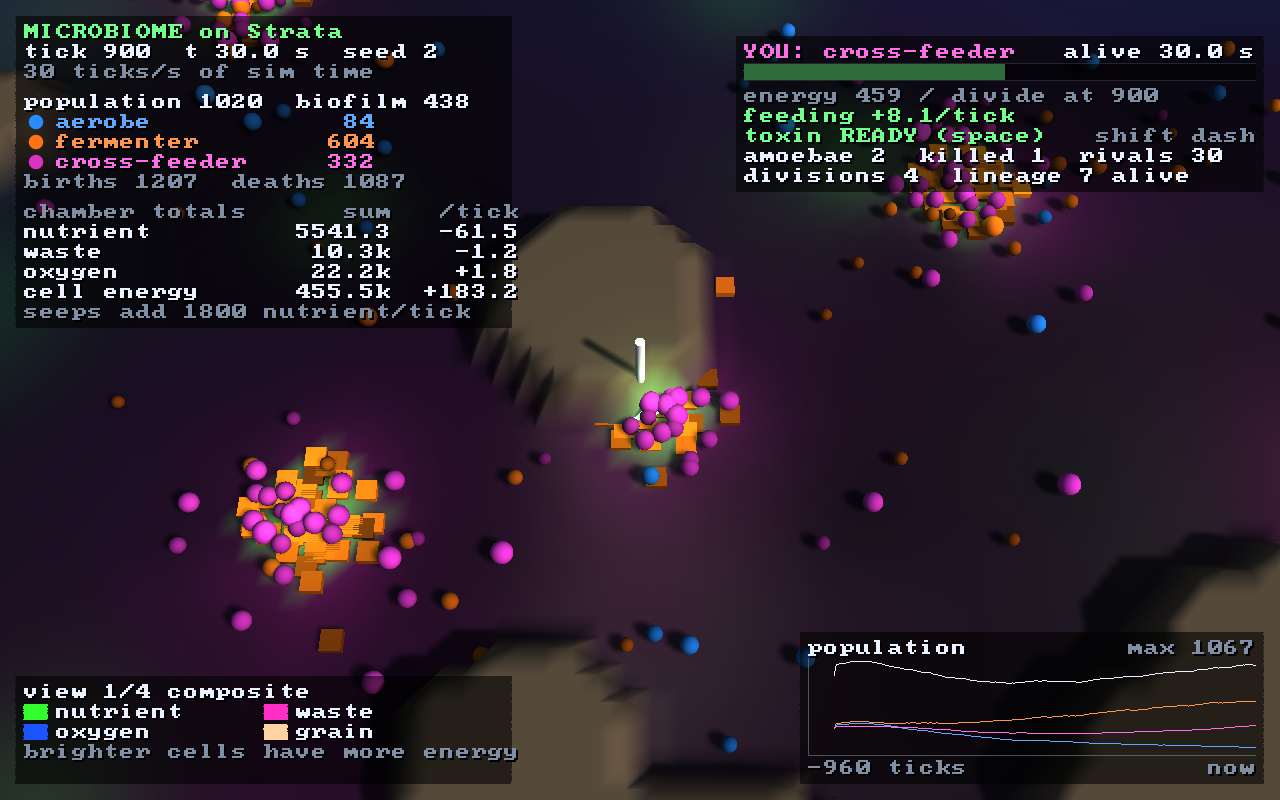
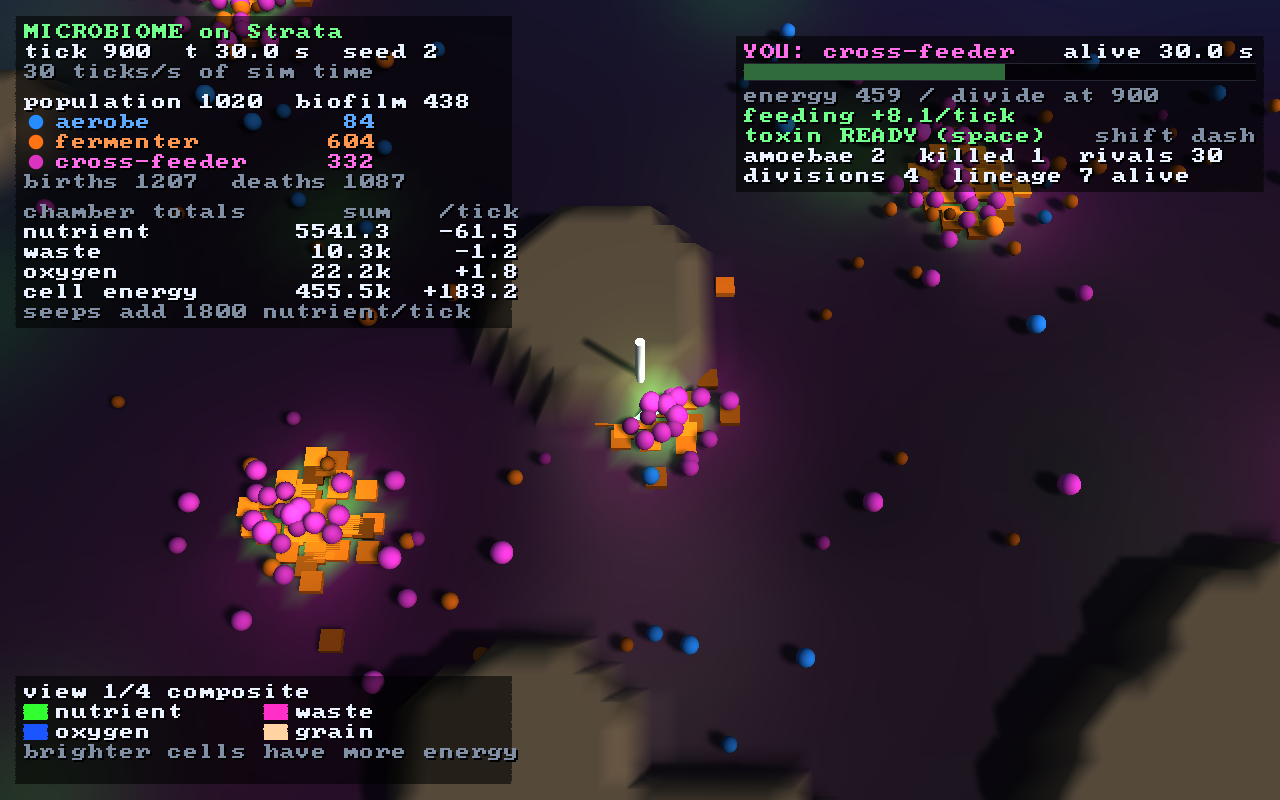
Show survival mode in the README with a GIF and a phone screenshot
The README's survival section gains an animated clip of a fight (seed 2,
ticks 300-540: three toxin bursts stun and kill an amoeba while the cell
divides) and a screenshot of the web page on a phone, next to the
existing still.

Taking the phone screenshot showed the page's Dash and Toxin buttons
covering the HUD's population sparkline, so the sparkline is now hidden
while a cell is embodied (docs/STRATA.md notes it).

drafted by Claude on behalf of Daniel Stephenson

Claude-Session: https://claude.ai/code/session_01LYNeumK8fwcmg2Z2FCVk1q

Changed region(s): [[0.8438, 0.7812, 1.0, 1.0], [0.625, 0.7812, 0.75, 0.8438], [0.625, 0.9375, 0.75, 0.9688]]

diff --git a/strata/src/hud.cpp b/strata/src/hud.cpp
@@ -294,37 +294,40 @@ void Hud::build(const MicroEnvironment& env, const StatsHistory& history, const 
              kDim);
     }
 
-    // ---- bottom right: population sparkline
-    const float spW = std::min(28.0f * s, W * 0.4f);
-    const float spH = s * 6.0f;
-    const float sx0 = W - m - spW - 2 * pad, sy0 = H - m - spH - 2 * lh - 2 * pad;
-    fillRect(sx0, sy0, W - m, H - m, kPanel);
-    const float gx0 = sx0 + pad, gx1 = W - m - pad;
-    const float gy0 = sy0 + pad + lh, gy1 = H - m - pad - lh;
-    const int span = history.capacity() * history.everyTicks();
-    text(gx0, sy0 + pad, "population", kWhite);
-    // The time axis: the window's span on the left, the present on the right.
-    text(gx0, gy1 + (lh - s), "-" + std::to_string(span) + " ticks", kDim);
-    text(gx1 - 3.0f * s, gy1 + (lh - s), "now", kDim);
-    line(gx0, gy1 - 0.5f, gx1, gy1 - 0.5f, kFrame, kFrame);
-    line(gx0 + 0.5f, gy0, gx0 + 0.5f, gy1, kFrame, kFrame);
-    if (samples.size() >= 2) {
-        int peak = 1;
-        for (const auto& smp : samples) peak = std::max(peak, smp.population());
-        const std::string peakLabel = "max " + std::to_string(peak);
-        text(gx1 - static_cast<float>(peakLabel.size()) * s, sy0 + pad, peakLabel, kDim);
-        const float dx = (gx1 - gx0) / static_cast<float>(history.capacity() - 1);
-        // Newest sample at the right edge.
-        const float xStart = gx1 - dx * static_cast<float>(samples.size() - 1);
-        auto yOf = [&](int v) { return gy1 - 1.0f - (gy1 - gy0 - 2.0f) * static_cast<float>(v) / static_cast<float>(peak); };
-        for (int series = -1; series < kSpeciesCount; ++series) {
-            float c[4];
-            if (series < 0) std::copy(kWhite, kWhite + 4, c);
-            else speciesTextColor(static_cast<Species>(series), c);
-            for (size_t i = 1; i < samples.size(); ++i) {
-                const int a = series < 0 ? samples[i - 1].population() : samples[i - 1].alive[series];
-                const int b = series < 0 ? samples[i].population() : samples[i].alive[series];
-                line(xStart + dx * static_cast<float>(i - 1), yOf(a), xStart + dx * static_cast<float>(i), yOf(b), c, c);
+    // ---- bottom right: population sparkline. While a cell is embodied its own
+    // panel matters more, and on the web page the Dash and Toxin buttons sit here.
+    if (!env.player().embodied) {
+        const float spW = std::min(28.0f * s, W * 0.4f);
+        const float spH = s * 6.0f;
+        const float sx0 = W - m - spW - 2 * pad, sy0 = H - m - spH - 2 * lh - 2 * pad;
+        fillRect(sx0, sy0, W - m, H - m, kPanel);
+        const float gx0 = sx0 + pad, gx1 = W - m - pad;
+        const float gy0 = sy0 + pad + lh, gy1 = H - m - pad - lh;
+        const int span = history.capacity() * history.everyTicks();
+        text(gx0, sy0 + pad, "population", kWhite);
+        // The time axis: the window's span on the left, the present on the right.
+        text(gx0, gy1 + (lh - s), "-" + std::to_string(span) + " ticks", kDim);
+        text(gx1 - 3.0f * s, gy1 + (lh - s), "now", kDim);
+        line(gx0, gy1 - 0.5f, gx1, gy1 - 0.5f, kFrame, kFrame);
+        line(gx0 + 0.5f, gy0, gx0 + 0.5f, gy1, kFrame, kFrame);
+        if (samples.size() >= 2) {
+            int peak = 1;
+            for (const auto& smp : samples) peak = std::max(peak, smp.population());
+            const std::string peakLabel = "max " + std::to_string(peak);
+            text(gx1 - static_cast<float>(peakLabel.size()) * s, sy0 + pad, peakLabel, kDim);
+            const float dx = (gx1 - gx0) / static_cast<float>(history.capacity() - 1);
+            // Newest sample at the right edge.
+            const float xStart = gx1 - dx * static_cast<float>(samples.size() - 1);
+            auto yOf = [&](int v) { return gy1 - 1.0f - (gy1 - gy0 - 2.0f) * static_cast<float>(v) / static_cast<float>(peak); };
+            for (int series = -1; series < kSpeciesCount; ++series) {
+                float c[4];
+                if (series < 0) std::copy(kWhite, kWhite + 4, c);
+                else speciesTextColor(static_cast<Species>(series), c);
+                for (size_t i = 1; i < samples.size(); ++i) {
+                    const int a = series < 0 ? samples[i - 1].population() : samples[i - 1].alive[series];
+                    const int b = series < 0 ? samples[i].population() : samples[i].alive[series];
+                    line(xStart + dx * static_cast<float>(i - 1), yOf(a), xStart + dx * static_cast<float>(i), yOf(b), c, c);
+                }
             }
         }
     }

diff --git a/README.md b/README.md
@@ -100,8 +100,17 @@ F carries on as one of your descendants. A chamber nobody plays runs exactly as 
 [docs/STRATA.md](docs/STRATA.md#survival).
 
 <p align="center">
-  <img src="assets/strata/survival.png" width="640" alt="Survival mode at 1280 by 800: the camera follows an embodied pink cross-feeder, marked by a white column, feeding in a colony beside a rock grain. A panel at the top right reads YOU: cross-feeder, alive 30.0 s, with a green energy bar, feeding +8.1 per tick, toxin ready, two amoebae, one killed, 30 rivals, four divisions and a lineage of seven alive.">
-  <br><em><code>mb_strata --embody cross-feeder --autopilot</code>, seed 2, tick 900: the bot has killed an amoeba and divided four times.</em>
+  <img src="assets/strata/survival.gif" width="560" alt="An animated clip of survival mode. The camera follows a pink cross-feeder, marked by a white disc and column, beside a rock grain. A large red amoeba crawls up to it; the cross-feeder fires a green ring of toxin, the amoeba turns grey while stunned, the panel at the top right warns AMOEBA 3 cells away, and after the third burst the amoeba dies and the panel's killed count reads 1. Meanwhile the cross-feeder keeps feeding and divides.">
+  <br><em><code>mb_strata --embody cross-feeder --autopilot --seed 2</code>, ticks 300–540: an amoeba closes in,
+  three toxin bursts stun it and the third kills it, and the cell divides in the middle of the fight.</em>
+</p>
+
+<p align="center">
+  <img src="assets/strata/survival-phone.png" width="300" alt="The web page on a phone while a cross-feeder is embodied: the chamber with the YOU: cross-feeder panel at the top right, round Dash and Toxin buttons over the bottom right of the chamber, and below it the field, clock and survival buttons, with Cross-feeder highlighted next to the words You are a.">
+  &nbsp;
+  <img src="assets/strata/survival.png" width="440" alt="Survival mode at 1280 by 800: the camera follows an embodied pink cross-feeder, marked by a white column, feeding in a colony beside a rock grain. A panel at the top right reads YOU: cross-feeder, alive 30.0 s, with a green energy bar, feeding +8.1 per tick, toxin ready, two amoebae, one killed, 30 rivals, four divisions and a lineage of seven alive.">
+  <br><em>Left: the web page on a phone, with the drag joystick and the Dash and Toxin buttons. Right: the same seed at
+  tick 900, after four divisions, with a lineage of seven alive.</em>
 </p>
 Options: `--seed`, `--size`, `--per-species`, `--max-population N` (fission stops at this population;
 default 20,000), `--view`, `--zoom`, `--yaw`, `--tps`, `--no-hud`,

diff --git a/docs/STRATA.md b/docs/STRATA.md
@@ -251,9 +251,15 @@ the food gradient, head for a seep when hungry) for headless runs:
 build-strata/mb_strata --headless --ticks 900 --embody cross-feeder --autopilot --screenshot survival.png
 ```
 
+The HUD adds the embodied cell's panel at the top right (energy bar, what is
+hurting it, toxin and dash state, kills and lineage), a card after a death,
+and hides the population sparkline while a cell is embodied, where the page's
+Dash and Toxin buttons sit.
+
 The browser page adds `mb_embody`, `mb_steer`, `mb_dash`, `mb_toxin`,
-`mb_player_state`, `mb_player_species` and `mb_player_energy`; a drag on the
-canvas becomes a joystick while a cell is embodied.
+`mb_clear_input`, `mb_player_state`, `mb_player_species`, `mb_player_energy`,
+`mb_player_x` and `mb_player_y`; a drag on the canvas becomes a joystick
+(with a 10 px dead zone) while a cell is embodied.
 
 ## Known gaps
 
